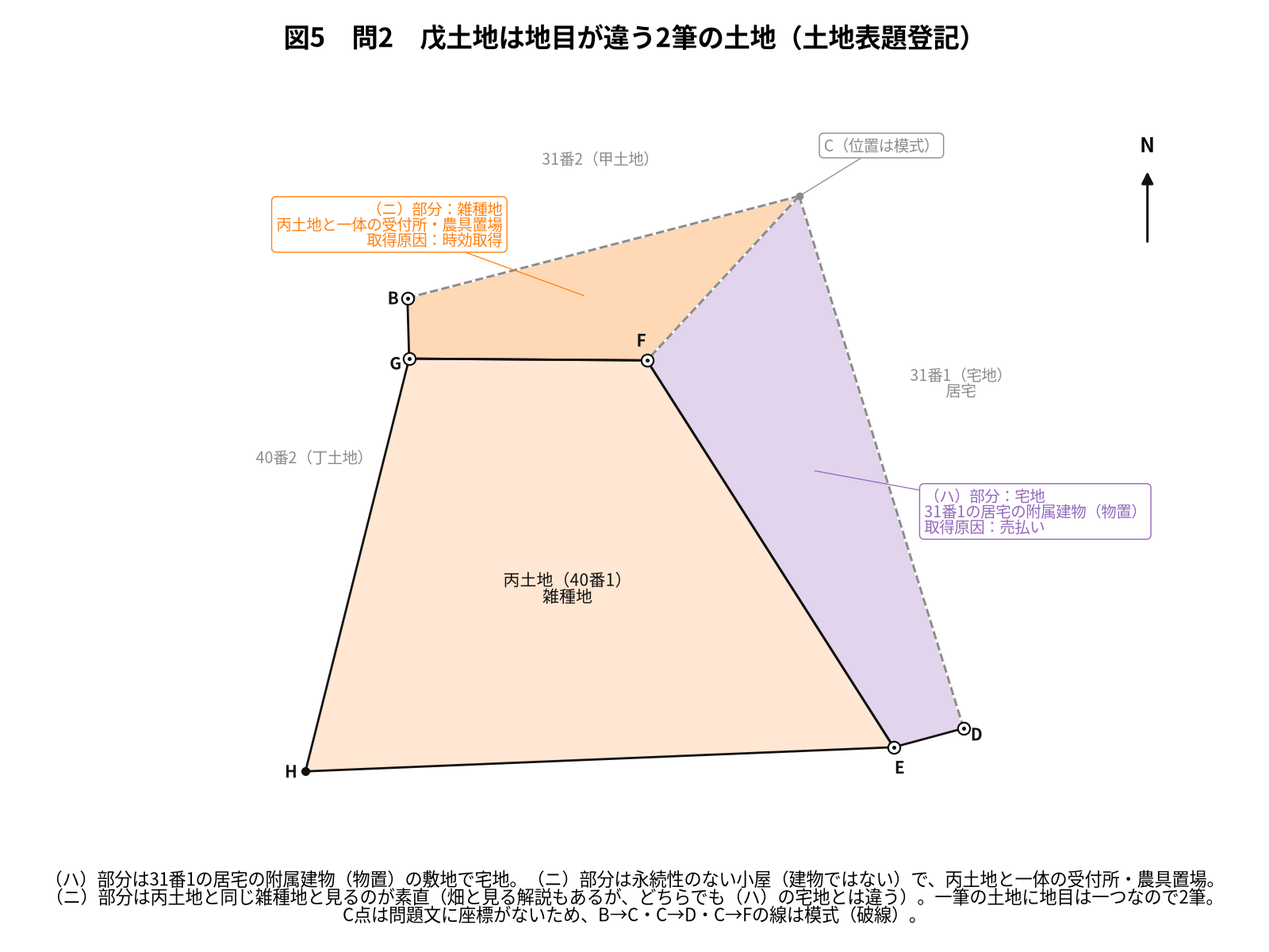
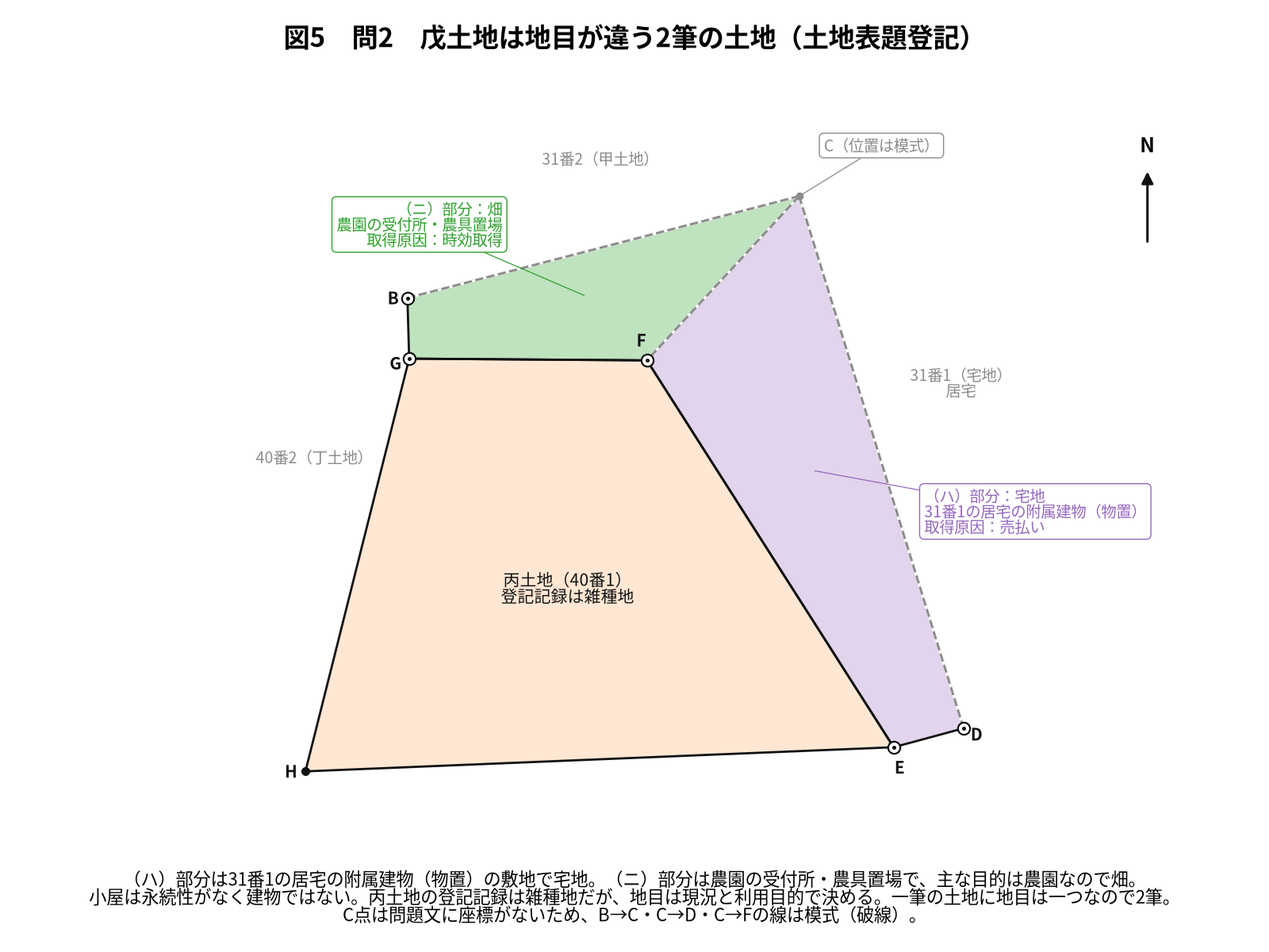
H28 Q21: 戊土地（ニ）部分の地目を雑種地から畑に修正（ユーザー指摘）
- 問題文「農園及び物産直販売の受付所並びに農具置場」は、農園を営みその受付所・農具置場に使っていると読めるので畑（アガルートの解答例と一致）
- 丙土地の登記記録（雑種地）を決め手にしていた説明を撤回し、登記記録の地目は登記時点のもので現況と利用目的で決める、とトリ先生が直す会話を追加
- 図5・図6とそのプロンプト、照合スクリプト（古い判断の文言の残存も確認）、執筆プロンプト・チェックリスト・CLAUDE.md を更新

Claude-Session: https://claude.ai/code/session_019i2Gk2fCgYxaRBrT4NUg4u

Changed region(s): [[0.0625, 0.8942, 0.9688, 0.9558], [0.2188, 0.185, 0.625, 0.4008], [0.375, 0.6167, 0.5, 0.6475]]

diff --git a/note-articles-Kijyutsu/H28/Q21/verify_H28_dai21mon_kaiwa.py b/note-articles-Kijyutsu/H28/Q21/verify_H28_dai21mon_kaiwa.py
@@ -1,7 +1,7 @@
 """平成28年度 第21問（土地）会話形式note記事：記事・付属プロンプトの数値・体裁の照合スクリプト。
 記事の答えが、アガルートの解答例（2026-09-29に添付の過去問集で照合。下の AGAROOT に転記）と一致することも確認する。
-食い違いの記録：アガルートの解説は戊土地の（ニ）部分を畑とする（記事は、丙土地と一体の雑種地と見るのが素直、畑と見る解説もある、
-どちらでも（ハ）部分の宅地とは地目が違う、と書く。問2の答え〈2筆・一の申請情報でできる〉は同じ）。
+（ニ）部分の地目：最初は丙土地の登記記録にならって雑種地としていたが、ユーザーの指摘（問題文は「農園及び物産直販売の受付所並びに
+農具置場」で、農園を営み、その受付所と農具置場に使っていると読める）を受けて、アガルートの解答例どおり畑に改めた（2026-09-29）。
 実行: python3 note-articles-Kijyutsu/H28/Q21/verify_H28_dai21mon_kaiwa.py"""
 import cmath
 import math
@@ -131,10 +131,11 @@ check('分筆と合筆の2件の誤答', '合わせて3,000円')
 for s in ['- **必要となる登記**：土地表題登記（（ニ）部分と（ハ）部分を2筆の土地として）',
           '- **一の申請情報によって申請することができるか否か**：一の申請情報によって申請することができる',
           '取得原因は時効取得、（ハ）部分の取得原因は売払いと異なるが', '登記原因及びその日付は不詳で同一である',
-          '（ニ）部分が雑種地、（ハ）部分が宅地で地目が異なるため']:
+          '（ニ）部分が畑、（ハ）部分が宅地で地目が異なるため']:
     check('問2', s)
 for s in ['不動産登記法第36条', '不動産登記事務取扱手続準則第68条第3号', '準則第69条第3号', '不動産登記令別表4の項添付情報欄ハ',
-          '不動産登記令第4条ただし書', '不動産登記規則第76条第2項', '畑と見る解説もある']:
+          '不動産登記令第4条ただし書', '不動産登記規則第76条第2項', '準則第68条第2号', '準則第68条の柱書',
+          '登記記録の地目は、登記したときの地目よ', '農園及び物産直販売の受付所並びに農具置場']:
     check('問2の根拠', s)
 
 # ---- 問3 申請書 ----
@@ -163,7 +164,7 @@ check('基準点まで入れた横', f'横は約{round((A102.imag - A.imag) * 4)
 check('A102はGより東', f'Gより約{round(A102.imag - G.imag):d}m東')
 
 # ---- アガルートの解答例（2026-09-29、過去問集の解答例ページから転記）と一致するか ----
-AGAROOT = ['（335.61, 306.61）', '（346.15, 265.61）', '土地表題登記', '一の申請情報によって申請することができる', '不詳',
+AGAROOT = ['（335.61, 306.61）', '（346.15, 265.61）', '土地表題登記', '（ニ）部分が畑、（ハ）部分が宅地', '一の申請情報によって申請することができる', '不詳',
            '土地分合筆登記', '地積測量図　登記識別情報　印鑑証明書　代理権限証書', '金2,000円', '16番1号　甲野太郎',
            '③276', '③230', '③32番1に一部合併', '③46', '40番2から分割して32番1に合併する部分', '③351', '③398',
            '③40番2から一部合併', '：19.60', '：2.44', '：17.11', '：11.92', '：14.13', '：2.39', '：19.20']
@@ -227,8 +228,14 @@ for s in ['①誤答', '②添削（赤ペン）', '③正解', '金3,000円', '
           '平成28年度 第21問｜分合筆は1件で2,000円、合筆後の32番1は398㎡']:
     check('添削の画像（HTML）', s, html_m, '添削画像')
 
+for src, name in [(fig, '解説図'), (draw, '作図')]:
+    for bad in ['丙土地と同じ雑種地', '（ニ）部分：雑種地', '地目：雑種地', '畑と見る解説']:
+        absent('（ニ）部分の古い判断', bad, src, name)
+    check('（ニ）部分は畑', '（ニ）部分：畑' if name == '解説図' else '（ニ）部分：畑\\n', src, name)
+
 # ---- 表記 ----
-for bad in ['PDF', '名変', '右上', '左下', '✓', '✕', 'コンクリートくい', 'くいが', '令和']:
+for bad in ['PDF', '名変', '右上', '左下', '✓', '✕', 'コンクリートくい', 'くいが', '令和', '丙土地と同じ雑種地', '（ニ）部分：雑種地',
+            '畑と見る解説']:
     absent('誤記・混入・専門用語のひらがな書き', bad)
 check('専門用語は問題文どおりの漢字', 'コンクリート杭')
 check('問題文どおりの用語', '売払い')

diff --git a/note-articles-Kijyutsu/H28/Q21/zu/draw_H28_dai21mon_kaisetsuzu.py b/note-articles-Kijyutsu/H28/Q21/zu/draw_H28_dai21mon_kaisetsuzu.py
@@ -269,13 +269,13 @@ ALL_PROBLEMS += save(fig, [z], 'H28_dai21mon_zu04_menseki.png')
 # 図5：問2 戊土地は地目の違う2筆
 # =====================================================================
 fig, (ax,) = new_figure('図5　問2　戊土地は地目が違う2筆の土地（土地表題登記）',
-                        '（ハ）部分は31番1の居宅の附属建物（物置）の敷地で宅地。（ニ）部分は永続性のない小屋（建物ではない）で、丙土地と一体の受付所・農具置場。\n'
-                        '（ニ）部分は丙土地と同じ雑種地と見るのが素直（畑と見る解説もあるが、どちらでも（ハ）の宅地とは違う）。一筆の土地に地目は一つなので2筆。\n'
+                        '（ハ）部分は31番1の居宅の附属建物（物置）の敷地で宅地。（ニ）部分は農園の受付所・農具置場で、主な目的は農園なので畑。\n'
+                        '小屋は永続性がなく建物ではない。丙土地の登記記録は雑種地だが、地目は現況と利用目的で決める。一筆の土地に地目は一つなので2筆。\n'
                         'C点は問題文に座標がないため、B→C・C→D・C→Fの線は模式（破線）。')
 z = Zu(ax)
 fit(ax, [B, C_MOSHIKI + P(2, 0), D, E, H, G, A102], margin=0.08, pad_aspect=True)
 z.poly(N40_1, fill=ORANGE, alpha=0.18, color=BLACK)
-z.poly(NI, fill=ORANGE, alpha=0.30, color=BLACK, lw=2.0)
+z.poly(NI, fill=GREEN, alpha=0.30, color=BLACK, lw=2.0)
 z.poly(HA, fill=PURPLE, alpha=0.28, color=BLACK, lw=2.0)
 for p, q in [(B, C_MOSHIKI), (C_MOSHIKI, D), (C_MOSHIKI, F)]:
     z.line(p, q, color='white', lw=2.4, check=False)
@@ -286,11 +286,11 @@ for p, n in [(B, 'B'), (G, 'G'), (F, 'F'), (E, 'E'), (D, 'D'), (H, 'H')]:
     z.point_label(p, n, away=centroid(NI) if n in 'BG' else centroid(HA) if n in 'DE' else centroid(N40_1))
 z.point(C_MOSHIKI, 'dot', size=6, color=GRAY)
 z.callout(C_MOSHIKI, 'C（位置は模式）', dirs=(60, 30, 90), color=GRAY, dists=(45, 65))
-z.callout(centroid(NI), '（ニ）部分：雑種地\n丙土地と一体の受付所・農具置場\n取得原因：時効取得', dirs=(150, 165, 135), color=ORANGE,
+z.callout(centroid(NI), '（ニ）部分：畑\n農園の受付所・農具置場\n取得原因：時効取得', dirs=(150, 165, 135), color=GREEN,
           dists=(90, 120, 150))
 z.callout(centroid(HA), '（ハ）部分：宅地\n31番1の居宅の附属建物（物置）\n取得原因：売払い', dirs=(-20, 0, -40), color=PURPLE,
           dists=(110, 140, 170))
-z.free_text(centroid(N40_1), '丙土地（40番1）\n雑種地', fs=15, offsets=((0, 0), (0, 20), (0, -20)))
+z.free_text(centroid(N40_1), '丙土地（40番1）\n登記記録は雑種地', fs=15, offsets=((0, 0), (0, 20), (0, -20)))
 z.free_text(P(349.5, 306.5), '31番1（宅地）\n居宅', fs=14, color=GRAY, offsets=((0, 0), (15, 15), (15, -15)))
 z.free_text(P(358.5, 292.0), '31番2（甲土地）', fs=14, color=GRAY, offsets=((0, 0), (0, 15), (-20, 15), (20, 15)))
 z.free_text(P(346.5, 280.5), '40番2（丁土地）', fs=14, color=GRAY, offsets=((0, 0), (-15, 0), (0, -15)))
@@ -307,7 +307,7 @@ ax = fig.add_axes([0.03, 0.10, 0.94, 0.80])
 ax.set_xlim(0, 100)
 ax.set_ylim(0, 100)
 ax.axis('off')
-COLS = [(4, '（ニ）部分', ORANGE, ['地目：雑種地', '取得原因：時効取得', '登記原因及びその日付：不詳']),
+COLS = [(4, '（ニ）部分', GREEN, ['地目：畑', '取得原因：時効取得', '登記原因及びその日付：不詳']),
         (52, '（ハ）部分', PURPLE, ['地目：宅地', '取得原因：売払い', '登記原因及びその日付：不詳'])]
 for x, head, col, lines in COLS:
     ax.add_patch(FancyBboxPatch((x, 58), 44, 30, boxstyle='round,pad=0.6', fc='#f7f7f7', ec=col, lw=2.2))

diff --git a/note-articles-Kijyutsu/qa-checklist-kijutsu.md b/note-articles-Kijyutsu/qa-checklist-kijutsu.md
@@ -139,7 +139,7 @@
 - **申請人の住所の下線と付記（2026-09-29追加、H27/Q21）**：下線で抹消された旧住所を写していないか。付記登記の住所（本店）の変更を反映したか。法人の代表者の氏名を書いたか（令第3条第2号）。会社法人等番号の扱いを本試験当時（平成27年11月施行前は資格証明情報）と現在の法令で書き分けたか
 - **後視の読み（2026-09-29追加、H28/Q21）**：後視点の観測角が0°00′00″でない年度（H28/Q21のA101は0°01′00″）に、求点の読みから後視の読みを引いているか。引き忘れても丸めた座標が同じになる年度（距離が短い）でも、記事の式は引いた形で書いているか
 - **平行四辺形と台形（2026-09-29追加、H28/Q21）**：「ABと平行なGを通る直線」との交点を、J ＝ A ＋ (G − B) の平行四辺形で出していないか。交点の式で出し、平行（Conjg(B − A) × (G − J) の虚部≈0）と一直線（△AJI≈0）で検算したか。誤りの点が筆界のどちら側に出るかを座標で確かめたか（H28/Q21：直線AIより約0.4m西）
-- **表題登記の筆数と一の申請情報（2026-09-29追加、H28/Q21）**：無番地の土地を地目ごとに別の土地として表題登記しているか（永続性のない小屋は建物でない、附属建物の敷地は宅地）。表題登記の登記原因（土地が生じた原因。元からある無番地の土地は不詳）と所有権の取得原因（時効取得・売払い）を混ぜていないか。取得原因が違っても、登記の目的と登記原因及びその日付が同じなら一の申請情報でできる（不動産登記令第4条ただし書）と書いているか
+- **表題登記の筆数と一の申請情報（2026-09-29追加、H28/Q21）**：無番地の土地を地目ごとに別の土地として表題登記しているか（永続性のない小屋は建物でない、附属建物の敷地は宅地）。地目を、一体で使う隣の土地の登記記録の地目で決めていないか（問題文の利用目的の書き方から主な目的を読む。H28/Q21の（ニ）部分は農園の受付所・農具置場で畑）。表題登記の登記原因（土地が生じた原因。元からある無番地の土地は不詳）と所有権の取得原因（時効取得・売払い）を混ぜていないか。取得原因が違っても、登記の目的と登記原因及びその日付が同じなら一の申請情報でできる（不動産登記令第4条ただし書）と書いているか
 - **合筆後の地積（2026-09-29追加、H28/Q21）**：合筆先の登記記録の地積が、地積測量図の座標求積の端数を切り捨てただけの値のとき、切り捨て後の地積に（ロ）を足していないか（H28/Q21：351＋46＝397は誤り、351.67100＋46.4342＝398.1052→398）。問題文の「座標値を用いて座標法により求積」の指示と、登記記録の地積が座標と別の値か（R2/Q21）、注で端数の援用を指示しているか（R5/Q21）を確かめたか
 - **分合筆の地積測量図（2026-09-29追加、H28/Q21）**：分筆前の土地だけを描き、合筆先の土地の形を描いていないか。合併する部分（ロ）に地番を付けていないか
 - **正弦定理の角と辺（2026-09-29追加、H25/Q21）**：三角形の2角と1辺から辺を出すとき、求める辺に向かい合う角のsinを使っているか（GF ＝ GD × sin∠D ÷ sin∠F）。求める辺の端の角を使うと、もう一つの辺の長さになる（H25/Q21：8.36のはずが11.04）。求めた点で、もう一つの辺の長さ（DF 11.04）も検算したか。「G点、D点及びF点を結んだ夾角」の頂点は真ん中の点
@@ -320,6 +320,13 @@
 
 チェックで見つかった誤りの種類と、指示書・執筆プロンプトへの反映を記録する。新しい記録は上に追加する。
 
+**2026-09-29　H28 Q21 （ニ）部分の地目の修正（ユーザー指摘）**
+
+- 指摘：問題文の「農園及び物産直販売の受付所並びに農具置場として」は、農園を営み、その農園の物産を直販売する受付所を設け、農具置場にも使っていると読める。「何も作付けしていない」と読むのは無理がある。畑を採用すること
+- 原因：（ニ）部分の地目を、一体で使っている丙土地の登記記録の地目（雑種地）を決め手にして雑種地としていた。登記記録の地目は登記した時点のもので、問題文が丙土地について確かめたのは地積と筆界点間の距離だけ（地目が現況と一致するとは書いていない）なので、決め手にならなかった。また、問題文の利用目的の書き方（「農園及び…」）を、受付所・直売所の使い方として狭く読んでいた
+- 反映：記事の第5章（（ニ）部分は畑。藍子が「丙土地の登記記録は雑種地」と迷い、トリ先生が「登記記録の地目は登記した時点のもの、地目は現況と利用目的で決める」と直す会話を追加）・問2の理由・まとめ、解説図の図5・図6とそのプロンプト、照合スクリプト（古い判断の文言が残っていないかも確認）、執筆プロンプトの手順6と誤答の対、本指示書の3-1、CLAUDE.md。アガルートの解答例と一致した
+- 教訓：地目は問題文の利用目的の書き方から主な目的を読んで決める。隣の土地の登記記録の地目は、問題文が一致を確かめていない限り根拠にしない
+
 **2026-09-29　H30 Q21 問2（エ）を「合意」から「意思」に修正（ユーザー指示）**
 
 - 指摘：空欄の前が「所有者の（エ）によって」。「合意」は複数の当事者の間で成り立つ語なので、普通は「所有者間の合意」「隣接所有者の合意」と書く。「所有者の」のすぐ後ろに置いて自然なのは「意思」。意味の面でも、筆界は公法上の境界で、所有者の意思では動かせない（この後ろ半分は第123条第1号の条文にはない説明）
@@ -356,7 +363,7 @@
 
 - 資料：添付は3ファイルで、試験問題本文（全9ページ、画像のみ）・試験の答案用紙（2ページ、テキストあり）・アガルートの過去問集の該当部分（全26ページ、1〜7ページが問題の再掲、8〜10ページが白紙の答案用紙、11ページ以降が解説と解答例）。欠けている資料はなかった。この年度は問題文に日付がなく、答案用紙の「平成28年○月○日」だけだが、アガルートの答案用紙の再現は「平成30年○月○日」に置き換わっていたので、試験の答案用紙どおり平成28年とした。一覧画像は1〜12ページだけ縮小して作り、解答例のページは自分で解き終わるまで開かなかった
 - 照合結果：D点（335.61, 306.61）・J点（346.15, 265.61）、問2（土地表題登記・一の申請情報でできる・理由の筋）、問3の申請書（土地分合筆登記、添付書類4つ、金2,000円、土地の表示5行〈276・230・46・351・398〉と各行の原因）、問4の地積測量図（辺長7本、境界標、（ロ）に地番なし）がアガルートの解答例と一致
-- 食い違い：アガルートは戊土地の（ニ）部分の地目を「畑」とする（農園が主目的）。記事は、永続性のない小屋は建物でなく、丙土地（登記記録は雑種地）と一体で受付所・農具置場に使っているので「丙土地と同じ雑種地と見るのが素直」とし、畑と見る解説もあると添えた。どちらでも（ハ）部分の宅地と地目が違うので、問2の答えは変わらない。また、アガルートの解説本文（解答例ではない）は「（ハ）部分は時効取得、（ニ）部分は払下げ」と取り違えていた（問題文は（ニ）が時効取得、（ハ）が売払い）。予備校の解説文にも誤記があるので、事実は問題文で確かめる
+- 食い違い：アガルートは戊土地の（ニ）部分の地目を「畑」とする（農園が主目的）。最初の記事は、丙土地（登記記録は雑種地）と一体で使っていることを決め手に雑種地としたが、ユーザーの指摘で畑に改めた（下の「（ニ）部分の地目の修正」の記録）。また、アガルートの解説本文（解答例ではない）は「（ハ）部分は時効取得、（ニ）部分は払下げ」と取り違えていた（問題文は（ニ）が時効取得、（ハ）が売払い）。予備校の解説文にも誤記があるので、事実は問題文で確かめる
 - 自分で解いたときの誤り：合筆後の32番1を、登記記録の351に（ロ）の46（46.4342）を足して397とした。解答例は398。32番1の登記記録の351は、備付の地積測量図の座標求積351.67100の1㎡未満を切り捨てた値で、その座標は今回の測量と一致し、問3のただし書が「地積は座標値を用いて座標法により求積する」なので、合筆後の32番1（K1・K2・K3・B・G・J・Aの7点）も座標で求めると398.1052→398になる。R2/Q21の「合筆後は登記記録の地積＋（ロ）」は、登記記録の地積（123.00）が座標（123.41）と別の値だった年度の話で、端数を切り捨てただけの年度には当てはまらないことに気づいた。これを藍子の誤答に使った
 - 迷った点：後視A101の観測角が0°01′00″。引き忘れても5.18m先で約1.5mmのずれで丸めた座標は同じだが、三角関数真数表に63°08′00″（引いた後の方向角）があることで引くのが正しいと確かめた。J点は「平行な直線」の条件から平行四辺形と思い込みやすいので、藍子の誤答にした（直線AIより約0.4m西の41番に出る）
 - 作図：C点（戊土地の北東の角）は問題文に座標がない。調査素図を既知の点で当てはめると最大約3.8mずれ、素図は縮尺どおりでないので、戊土地を描く図だけ模式の位置に置き「位置は模式」と明記した。放射のD点は、後視A101が30.7m先で求点Dが5.18mしかないため、1枚では弧が器械点のまわりに潰れた。「全体」と「A102のまわりの拡大」の2パネルにし、吹き出しを拡大パネルに置いた。2パネルの図で、片方のパネルの吹き出しが隣のパネルに描かれることがある（`annotation_clip=False` のため）。重なりの自動検査の「はみ出し」で見つかるので、0件になるまで直した

diff --git a/note-articles-Kijyutsu/H28/Q21/note_H28_dai21mon_tochi_kaiwa_kaisetsu.md b/note-articles-Kijyutsu/H28/Q21/note_H28_dai21mon_tochi_kaiwa_kaisetsu.md
@@ -361,12 +361,18 @@ GH ＝ Abs(H − G)
 「（ハ）部分は、31番1の居宅の附属建物の物置が建っていて、居宅と一体で使っています。建物の敷地と、その維持・効用を果たすために必要な土地なので宅地です（不動産登記事務取扱手続準則第68条第3号）。（ニ）部分は……農具置場の小屋があるから、こっちも宅地？」
 
 **トリ先生**  
-「小屋は『永続性のない』ものよ。永続性のない小屋は建物じゃないから、その敷地は宅地にならない。耕作地の中の農具小屋でも、宅地になるのは建物が永久的設備と認められるときだけ（準則第69条第3号）。（ニ）部分は、丙土地と一体で、農園と物産直販売の受付所・農具置場に使っている。だから、同じ使い方の丙土地と同じ雑種地と見るのが素直ね。農園の一部として畑と見る解説もあるけど、どちらにしても（ハ）部分の宅地とは地目が違う。答えに効くのはそこよ」
+「小屋は『永続性のない』ものよ。永続性のない小屋は建物じゃないから、その敷地は宅地にならない。耕作地の中の農具小屋でも、宅地になるのは建物が永久的設備と認められるときだけ（準則第69条第3号）。問題文をよく読みなさい。（ニ）部分は、丙土地と一体で『農園及び物産直販売の受付所並びに農具置場』として使っている。甲野さんは農園をやっていて、そこに農園の物産を直販売する受付所を設け、農具置場にも使っているの。主な目的は農園で、小屋はそれに付いている附随的なものにすぎない。だから地目は畑（準則第68条第2号）」
 
 **藍子**  
-「地目が違うから、（ニ）部分と（ハ）部分は別々の土地。2筆の土地表題登記になるんですね」
+「でも先生、丙土地の登記記録の地目は雑種地ですよね。一体で使っているなら、（ニ）部分も雑種地になりませんか？」
 
-> 【画像挿入】戊土地を2筆に分ける図（（ニ）部分：丙土地と一体の受付所・農具置場で雑種地・取得原因は時効取得、（ハ）部分：31番1の居宅の附属建物の物置で宅地・取得原因は売払い。C点の位置は模式）
+**トリ先生**  
+「登記記録の地目は、登記したときの地目よ。今の使い方と合っているとは限らない。調査の結果で丙土地について確かめたのは『地積及び筆界点間の距離は地積測量図と一致』だけで、地目が現況と合っているとはどこにも書いていないの。地目は登記記録から写すものじゃなく、土地の現況と利用目的で決める（準則第68条の柱書）。それに、設問が求めているのは戊土地と丁土地の登記だけ。丙土地の地目を答えさせる問題じゃないわ」
+
+**藍子**  
+「登記記録の地目につられて決めちゃだめなんですね。（ハ）部分は宅地、（ニ）部分は畑。地目が違うから別々の土地で、2筆の土地表題登記になるんですね」
+
+> 【画像挿入】戊土地を2筆に分ける図（（ニ）部分：農園の受付所・農具置場で畑・取得原因は時効取得、（ハ）部分：31番1の居宅の附属建物の物置で宅地・取得原因は売払い。C点の位置は模式）
 
 **トリ先生**  
 「じゃあ、その2筆を一の申請情報で申請できる？」
@@ -391,7 +397,7 @@ GH ＝ Abs(H − G)
 
 - **必要となる登記**：土地表題登記（（ニ）部分と（ハ）部分を2筆の土地として）
 - **一の申請情報によって申請することができるか否か**：一の申請情報によって申請することができる
-- **理由**：戊土地は、（ニ）部分が雑種地、（ハ）部分が宅地で地目が異なるため、2筆の土地として土地表題登記を申請する必要がある。（ニ）部分の取得原因は時効取得、（ハ）部分の取得原因は売払いと異なるが、土地表題登記の登記原因は土地が生じた原因であり、2筆ともその登記原因及びその日付は不詳で同一である。同一の登記所の管轄区域内にある2筆の土地について、登記の目的並びに登記原因及びその日付が同一であるから、一の申請情報によって申請することができる（不動産登記令第4条ただし書）
+- **理由**：戊土地は、（ニ）部分が畑、（ハ）部分が宅地で地目が異なるため、2筆の土地として土地表題登記を申請する必要がある。（ニ）部分の取得原因は時効取得、（ハ）部分の取得原因は売払いと異なるが、土地表題登記の登記原因は土地が生じた原因であり、2筆ともその登記原因及びその日付は不詳で同一である。同一の登記所の管轄区域内にある2筆の土地について、登記の目的並びに登記原因及びその日付が同一であるから、一の申請情報によって申請することができる（不動産登記令第4条ただし書）
 
 **藍子**  
 「問題文の『近傍類似の土地についての地図の縮尺は500分の1』は、何のためにあったんですか？」
@@ -511,7 +517,7 @@ GH ＝ Abs(H − G)
 
 - **後視の読みは0°00′00″とは限らない**：D点はA101の0°01′00″を引いて168°08′00″。今年は距離が5.18mと短く、引き忘れても丸めると同じ（335.61, 306.61）だったのは偶然。三角関数真数表の63°08′00″が合図
 - **平行な辺が1組なら台形**：J ＝ A ＋ (G − B) の平行四辺形だと（346.06, 265.22）で、直線AIより約0.4m西の41番に出る。J点は直線AIとの交点（346.15, 265.61）
-- **戊土地は地目で2筆**：（ハ）部分は居宅の附属建物の物置で宅地。（ニ）部分は永続性のない小屋で建物がなく、丙土地と一体で雑種地
+- **戊土地は地目で2筆**：（ハ）部分は居宅の附属建物の物置で宅地。（ニ）部分は農園の受付所・農具置場で畑（永続性のない小屋は建物ではなく、宅地にならない）。丙土地の登記記録の雑種地につられない
 - **取得原因と登記原因は別物**：時効取得・売払いは所有権を証する情報で示す。表題登記の登記原因は土地が生じた原因で、2筆とも不詳。だから一の申請情報で申請できる（不動産登記令第4条ただし書）
 - **登録免許税が最少なのは分合筆1件**：分筆と合筆の2件だと3,000円、分合筆なら2,000円（不動産登記規則第35条第1号）
 - **合筆後の32番1は398㎡**：登記記録の351に46を足した397ではなく、座標法で351.67100＋46.4342＝398.1052

diff --git a/note-articles-Kijyutsu/prompt_note-kijutsu_tochi_kaiwa_kyoutsu.md b/note-articles-Kijyutsu/prompt_note-kijutsu_tochi_kaiwa_kyoutsu.md
@@ -141,7 +141,7 @@
 - **後視の読みが0°00′00″でない放射（H28/Q21で追加）**：観測値の表で後視点の観測角が0°01′00″のように0でない年度は、求点の観測角から後視の読みを引いた角度（168°09′00″ − 0°01′00″ ＝ 168°08′00″）を足す。三角関数真数表に引いた後の方向角（63°08′00″）が載っているのが合図。引き忘れても距離が短いと丸めた座標が変わらないこと（H28/Q21は5.18mで約1.5mm）があるが、それは偶然なので正しい式で書く
 - **平行な辺が1組の四角形の交点（H28/Q21で追加）**：「ABと平行なGを通る直線とAIの交点」は、J ＝ A ＋ (G − B) の平行四辺形では出ない（AJとBGは平行でない）。交点の式で出し、Conjg(B − A) × (G − J) の虚部がほぼ0（平行）、△AJIがほぼ0（一直線）で検算する。平行四辺形の誤りの点が筆界の外（H28/Q21：直線AIより約0.4m西の41番）に出ることを見せる
 - **四角形の面積は対角線で（H28/Q21で追加）**：四角形PQRSの倍面積は Conjg(R − P) × (S − Q) のiの係数（対角線どうし）。4点を順に回る式よりキーが少ない。多角形の式と同じ値になることを照合スクリプトで確かめる
-- **地目で筆を分ける表題登記（H28/Q21で追加）**：無番地の土地の中で地目が違えば、別々の土地として表題登記する（一筆の土地に地目は一つ）。居宅の附属建物（物置）の敷地は宅地（準則第68条第3号）。永続性のない小屋は建物ではないので、その敷地は宅地にならない（準則第69条第3号の考え方）。隣の土地と一体で使う部分は、その土地と同じ地目で考える（H28/Q21の（ニ）部分は丙土地と同じ雑種地。畑と見る解説もあるが、宅地の（ハ）部分と地目が違う結論は同じ）
+- **地目で筆を分ける表題登記（H28/Q21で追加）**：無番地の土地の中で地目が違えば、別々の土地として表題登記する（一筆の土地に地目は一つ）。居宅の附属建物（物置）の敷地は宅地（準則第68条第3号）。永続性のない小屋は建物ではないので、その敷地は宅地にならない（準則第69条第3号の考え方）。地目は問題文の利用目的の書き方から、主な目的で決める（H28/Q21の（ニ）部分は「農園及び物産直販売の受付所並びに農具置場」で、農園を営み、その受付所・農具置場に使っているので畑。永続性のない小屋は附随的なもの）。一体で使っている隣の土地の登記記録の地目（H28/Q21の丙土地の雑種地）につられない。登記記録の地目は登記した時点のもので、問題文が地目の一致まで確かめていなければ、現況と一致する根拠にならない（準則第68条の柱書：現況と利用目的で決める）
 - **取得原因と表題登記の登記原因（H28/Q21で追加）**：土地の表題登記の登記原因は「土地が生じた原因とその日付」（公有水面埋立など。元からある無番地の土地は「不詳」）で、所有権の取得原因（時効取得・売払い）ではない。取得原因は所有権を証する情報（不動産登記令別表4の項添付情報欄ハ）で示す。登記の目的と登記原因及びその日付が同じ2筆は、一の申請情報で申請できる（不動産登記令第4条ただし書）。問題文が「地目」「取得原因」「登記原因」の語句を使えと指定するのは、この区別を書かせる合図
 - **合筆後の地積と端数（H28/Q21で追加）**：合筆先の土地の登記記録の地積が、備付の地積測量図の座標求積の端数を切り捨てただけの値（H28/Q21：351.67100 → 351㎡、畑）で、その座標が今回の測量と一致し、問題文が「地積は座標値を用いて座標法により求積する」と指示しているときは、合筆後の地積を座標で出す（351.67100 ＋ 46.4342 ＝ 398.1052 → 398）。登記記録の351に46を足すと397で1㎡足りない。登記記録の地積が座標と別の値（R2/Q21：123.00と座標123.41）のときは、登記記録の地積＋（ロ）。注で端数の援用を指示する年度（R5/Q21）は注に従う
 - **分合筆の地積測量図（H28/Q21で追加）**：分筆前の土地（分割される側）だけを描き、合筆先の土地の形は描かない。合併する部分（ロ）には地番を付けない（独立した登記記録を作らない）。隣接地に無番地の土地があれば、書く地番がないことを会話で確かめる
@@ -373,6 +373,7 @@
   - 交点で出す台形のJ ⇔ 平行四辺形と思い込んだJ（J ＝ A ＋ (G − B)）
   - 地目で分けた2筆の表題登記 ⇔ 無番地の1筆の表題登記
   - 永続性のない小屋の敷地（宅地にならない）⇔ 附属建物の物置の敷地（宅地）
+  - 利用目的から決める地目（農園の受付所・農具置場＝畑）⇔ 一体で使う隣の土地の登記記録の地目（雑種地）
   - 表題登記の登記原因（土地が生じた原因・不詳）⇔ 所有権の取得原因（時効取得・売払い）
   - 分合筆1件（2,000円）⇔ 分筆と合筆の2件（3,000円）
   - 合筆後は地積測量図の端数から（398）⇔ 登記記録の切り捨て後の地積に足す（397）

diff --git a/CLAUDE.md b/CLAUDE.md
@@ -284,7 +284,7 @@ I点はH→Eの延長線（t＝2.1243…）とA→Bの交点で、E→Hは真南
 本問は、A102からの放射で後視A101の読みが0°01′00″なので観測角から引く点（168°08′00″。距離5.18mでは引き忘れても丸めた座標が同じなのは偶然、三角関数真数表の63°08′00″が合図）、D（335.61, 306.61）、
 「ABと平行なGを通る直線とAIの交点」のJ点を平行四辺形（J ＝ A ＋ (G − B)。直線AIより約0.4m西の41番に出る）ではなく交点の式で出す点（346.15, 265.61）、
 32番1・40番1の地積測量図の座標でA・B・G・Hが分かり（K5＝A、K4＝B、①＝G、④＝H）、辺長19.60・17.11で裏付ける点、四角形の面積を対角線の式で出す点（（イ）230.2059・（ロ）46.4342）、
-問2で無番地の戊土地を地目の違う2筆（（ハ）部分は居宅の附属建物の物置の敷地で宅地、（ニ）部分は永続性のない小屋で建物がなく丙土地と一体の雑種地。アガルートは畑とするが結論は同じ）の土地表題登記とし、
+問2で無番地の戊土地を地目の違う2筆（（ハ）部分は居宅の附属建物の物置の敷地で宅地、（ニ）部分は農園の物産直販売の受付所・農具置場で主な目的は農園なので畑。永続性のない小屋は建物ではない。一体で使う丙土地の登記記録の雑種地につられない。最初は雑種地としていたがユーザーの指摘で畑に改め、アガルートと一致）の土地表題登記とし、
 取得原因（時効取得・売払い）は違っても表題登記の登記原因及びその日付は2筆とも「不詳」で同一なので一の申請情報で申請できる点（不動産登記令第4条ただし書）、
 問3で登録免許税が最少の土地分合筆登記1件（金2,000円。分筆と合筆の2件だと3,000円。不動産登記規則第35条第1号）、合筆後の32番1を登記記録の351＋46＝397ではなく地積測量図の351.67100＋46.4342＝398.1052→398とする点（問3の「座標法により求積」の指示。R2/Q21の「登記記録＋（ロ）」は登記記録が座標と別の値の年度）、
 （ロ）の行「40番2から分割して32番1に合併する部分」、問4の地積測量図は分筆前の40番2だけで（ロ）に地番を付けない点が主な論点。C点は問題文に座標がないので、戊土地を描く図だけ「位置は模式」と明記した（解説図の基本フォームに反映）。
